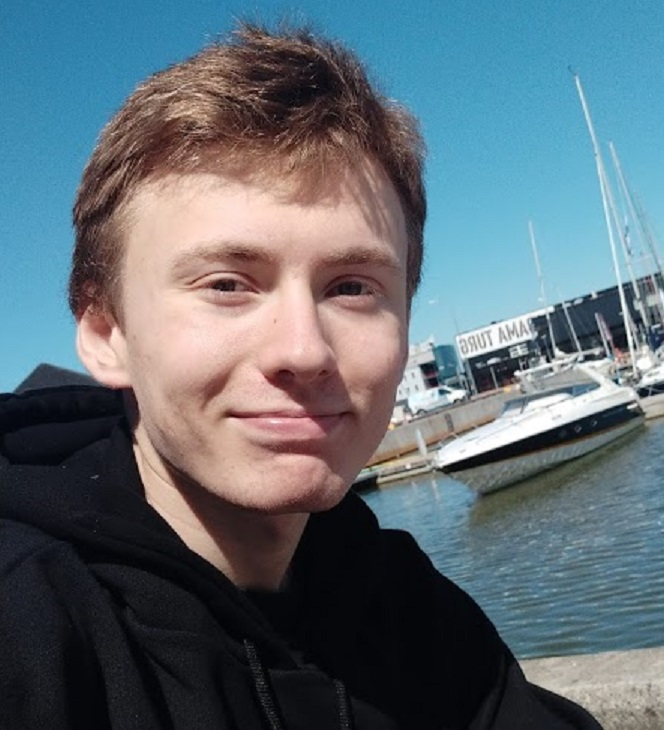
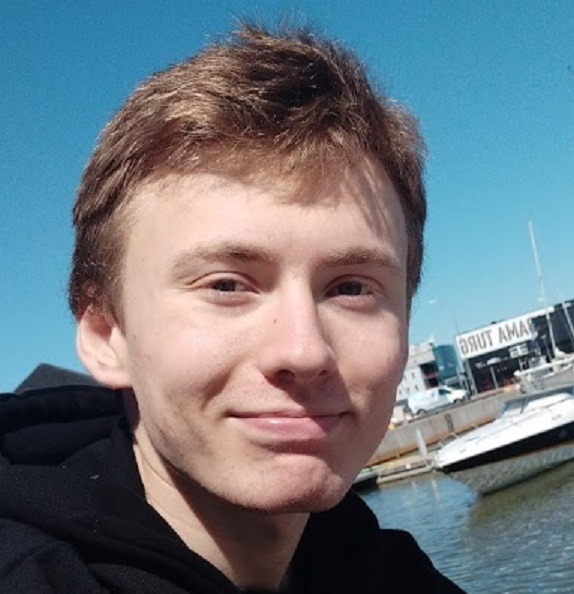
Added contact list, made the video smaller

diff --git a/kontaktileht.html b/kontaktileht.html
@@ -37,6 +37,31 @@
         </form>
     </section>
     <section>
+        <h1>Kontaktandmed</h1>
+        <div class="contactInfoContainer">
+            <div>
+                <h3>Support:</h3>
+                <p>+372 694201</p>
+                <p>support@team1.ee</p>
+            </div>
+            <div>
+                <h3>Business:</h3>
+                <p>+372 694202</p>
+                <p>business@team1.ee</p>
+            </div>
+            <div>
+                <h3>Info:</h3>
+                <p>+372 694203</p>
+                <p>info@team1.ee</p>
+            </div>
+            <div>
+                <h3>Aadress:</h3>
+                <p>10140, Tallinn, Harjumaa</p>
+                <p>Viru tänav 24</p>
+            </div>
+        </div>
+    </section>
+    <section>
         <h1>Meie soovitud koht pärast koroonat</h1>
         <iframe src="https://www.google.com/maps/embed?pb=!1m14!1m8!1m3!1d54721.47851281666!2d26.931514369679146!3d59.35633941338224!3m2!1i1024!2i768!4f13.1!3m3!1m2!1s0x0%3A0x90917744d91b9081!2zS2l2acO1bGkgdHVoYW3DpGdp!5e0!3m2!1sen!2see!4v1618652911053!5m2!1sen!2see" width="800" height="600" style="border:0;" allowfullscreen="" loading="lazy"></iframe>
     </section>

diff --git a/css/kontaktileht.css b/css/kontaktileht.css
@@ -13,6 +13,7 @@ section form {
     padding: 20px 10px;
     margin-bottom: 20px;
     transition: 0.2s all;
+    overflow: hidden;
 }
 
 .passed {
@@ -24,6 +25,7 @@ section form {
     padding: 20px 10px;
     margin-bottom: 20px;
     transition: 0.2s all;
+    overflow: hidden;
 }
 
 form * {
@@ -69,6 +71,15 @@ iframe {
     height: 600px;
     border-radius: 10px;
     margin-bottom: 20px;
+}
+
+.contactInfoContainer {
+    display: flex;
+    flex-wrap: wrap;
+    justify-content: space-around;
+    align-items: center;
+    gap: 50px;
+    width: 95%;
 }
 
 @media only screen and (max-width: 800px) {

diff --git a/css/tiimileht.css b/css/tiimileht.css
@@ -57,6 +57,7 @@
 .video-container {
   display: block;
   text-align: center;
+  padding: 15px 150px;
 }
 
 .video {
@@ -77,6 +78,9 @@
     width:  450px;
     height: 450px;
   }
+  .video-container {
+    padding: 15px 75px;
+  }
 }
 
 @media only screen and (max-width: 800px) {
@@ -84,4 +88,8 @@
     width:  200px;
     height: 200px;
   }
+  .video-container {
+    padding: 15px;
+  }
+
 }
